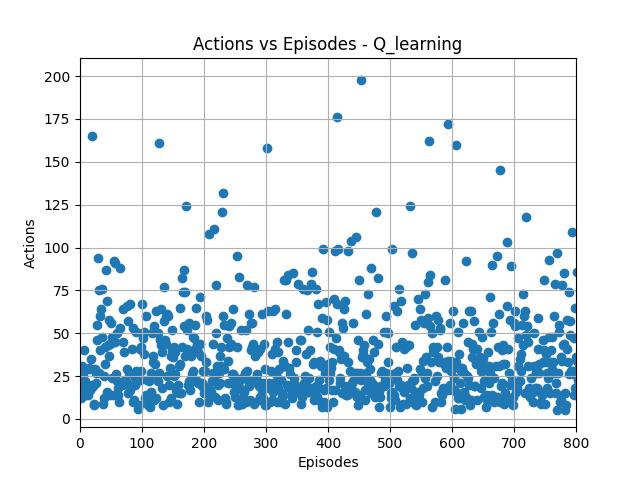
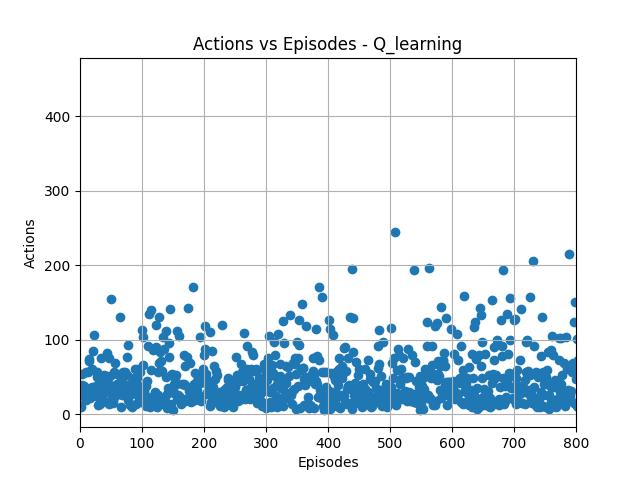
Melhorando range dos parametros.

diff --git a/FrozenLake.py b/FrozenLake.py
@@ -3,6 +3,7 @@ import gymnasium as gym
 import numpy as np
 import matplotlib.pyplot as plt
 from QLearning import QLearning
+from Sarsa import Sarsa
 from numpy import loadtxt
 from numpy import savetxt
 import warnings
@@ -17,16 +18,21 @@ def test_performance(qtable):
         Retorna percentual de acerto do modelo
     '''
 
-    env = gym.make('FrozenLake-v1', render_mode='ansi').env
-
+    env = gym.make('FrozenLake-v1',  map_name="8x8", render_mode='ansi').env
     goals = 0
-
-    for i in range(0,1000):    
+    
+    for i in range(0,100):    
+        
         (state, _) = env.reset()
         done = False
-        while not done:
+        epochs = 0
+
+        while (not done) and (epochs < 300):
+
             action = np.argmax(qtable[state])
             state, reward, done, _, info = env.step(action)
+            epochs +=1
+        
         goals += reward
 
     return goals
@@ -34,22 +40,38 @@ def test_performance(qtable):
 def main():
 
     # Filenames
-    file_csv = 'data/q-table-frozen-lake-qlearning.csv'
-    file_img = 'results/frozen_lake_qlearning'
+    file_csv = 'data/q-table-frozen-lake-sarsa.csv'
+    file_img = 'results/frozen_lake_sarsa'
 
-    # ----- Parâmetros para GridSearch -----
+    # ----- Parâmetros para GridSearch ----
+    # alpha =0.05  gamma=0.95  epsilon=0.85 - 15000 episodios
+    # alpha =0.05  gamma=0.95  epsilon=0.95 - 15000 episodios
+    # alpha =0.05  gamma=0.95  epsilon=0.85 - 89%                      |
+    # alpha =0.05  gamma=0.85  epsilon=0.95 - 60%                      |
+    # alpha =0.2  gamma=0.95  epsilon=0.85  - 72%                      |
+    # alpha =0.03  gamma=0.85  epsilon=0.88 - 72%                      |
+    # alpha =0.03  gamma=0.95  epsilon=0.95 - 77%                      | 
+    # alpha =0.03  gamma=0.98  epsilon=0.95 - 91 %                     |   
+    # alpha =0.03  gamma=0.98  epsilon=0.98 - 91 %                18000 episodios
+    # alpha =0.05  gamma=0.95  epsilon=0.95 - 73%                      |
+    # alpha =0.05  gamma=0.95  epsilon=0.98 - 84%                      |
+    # alpha =0.05  gamma=0.98  epsilon=0.88 - 87%                      |
+    # alpha =0.1  gamma=0.98  epsilon=0.88  - 87%                      |
+    # alpha =0.15  gamma=0.98  epsilon=0.98 - 88%                      |
+    # alpha =0.15  gamma=0.95  epsilon=0.95 - 80%                      |  
+    # alpha =0.15  gamma=0.98  epsilon=0.98 - 88%                      | 
 
-    list_alpha = [0.15 , 0.35 , 0.45 , 0.55 , 0.65  ]
-    list_gamma = [0.75 , 0.77 , 0.83 , 0.86 , 0.89 , 0.95 , 0.98  ]
-    list_epsilon = [ 0.3 , 0.4 , 0.5 , 0.6 , 0.7]
+    list_alpha = [0.01, 0.03, 0.05 , 0.5, 0.1 , 0.15 , 0.2]   
+    list_gamma = [0.8 ,0.85 , 0.95 , 0.98]  
+    list_epsilon = [0.85 , 0.88,  0.9, 0.95 , 0.98] 
 
     epsilon_min = 0.0001
     epsilon_dec = 0.9999
-    episodes  = 5000
+    episodes  = 18000 
 
     # ----- Progress Bar -----
     size = len(list_alpha)*len(list_gamma)*len(list_epsilon)
-    bar = IncrementalBar('Progress ', max = size)
+    bar = IncrementalBar(' Progress ', max = size)
 
     # ----- Melhor conjunto [alpha, gama, epsilon] e dicionario de %acertos com parâmetros  -----
 
@@ -57,9 +79,9 @@ def main():
     dic_goals = {}         #  {[alpha, gamma , epsilon] = % acertos , ...}    
 
     # ----- GridSearch -----
-    print("\n------------------------------------------------")
-    print("----------------- GRID SEARCH ------------------")
-    print("------------------------------------------------\n")
+    print("\n----------------------------------------------------")
+    print("------------------- GRID SEARCH --------------------")
+    print("----------------------------------------------------\n")
 
     for alpha in list_alpha:
         for gamma in list_gamma:
@@ -69,13 +91,20 @@ def main():
                 env = gym.make('FrozenLake-v1', map_name="8x8", render_mode='ansi').env
 
                 # ----- Treina modelo -----
-                qlearn = QLearning(env, alpha=alpha, gamma=gamma, epsilon=epsilon, epsilon_min=epsilon_min, epsilon_dec=epsilon_dec, episodes=episodes)
-                qtable , medium_rewards_per10 , actions_per_episode = qlearn.train()
+                sarsa = Sarsa(env, alpha=alpha, gamma=gamma, epsilon=epsilon, epsilon_min=epsilon_min, epsilon_dec=epsilon_dec, episodes=episodes)
+                qtable , medium_rewards_per10 , actions_per_episode = sarsa.train()
 
-                # --- Calcula percentual de acertos ---
-                goals = test_performance(qtable)
+                # --- Media de acertos ---
+                goals = np.mean(medium_rewards_per10)
+                print(f"------- alpha ={alpha}  gamma={gamma}  epsilon={epsilon}--------")
+                print(goals)
 
-                dic_goals[goals] = [alpha, gamma, epsilon]
+                teste = test_performance(qtable)
+                print(teste)
+                print("------------------------------------------------")
+                
+                parameters_str = f"{alpha} , {gamma} , {epsilon}"
+                dic_goals[parameters_str] = goals
 
                 if(goals > best_goal):
                     best_goal = goals
@@ -83,10 +112,10 @@ def main():
 
                     # Salva
                     savetxt(file_csv, qtable, delimiter=',')
-                    qlearn.plotactions(file_img, actions_per_episode, range(0, episodes) , 'Actions vs Episodes - Q_learning', 'Episodes', 'Actions')
+                    sarsa.plotactions(file_img, actions_per_episode, range(0, episodes) , 'Actions vs Episodes - Sarsa', 'Episodes', 'Actions')
 
                 # --- Atualiza Progresso ---
-                bar.next()
+                #bar.next()
     print("\n--------------------------------------\n")
     print(dic_goals)
     print("\n--------------------------------------\n")

diff --git a/Sarsa.py b/Sarsa.py
@@ -11,7 +11,7 @@ class Sarsa(Algoritimo):
     def __init__(self, env, alpha, gamma, epsilon, epsilon_min, epsilon_dec, episodes):
         super().__init__(env, alpha, gamma, epsilon, epsilon_min, epsilon_dec, episodes)
         
-    def train(self, csv_name, grafic_name , algoritimo):
+    def train(self):
         actions_per_episode = []
         reward_per_episode = []
         reward_list = []
@@ -50,26 +50,10 @@ class Sarsa(Algoritimo):
                 # Aplica a ação escolhida:
                 action = next_action
             
-            # Tratar ruidos do gráfico:
-            #if(i%10 == 0):
-                # Média do total_rewards a cada 10 episodios:
-            #    media = np.mean(reward_list)
-            #    reward_per_episode.append(media)
-            #    reward_list = []
-            #else:
-            #    reward_list.append(total_rewards)
-
-            reward_per_episode.append(total_rewards)    
             actions_per_episode.append(actions)
-            if i % 100 == 0:
-                sys.stdout.write("  > Episodes: " + str(i) +'\r')
-                sys.stdout.flush()
-                pass
+            reward_per_episode.append(total_rewards)
+
             if self.epsilon > self.epsilon_min:
                 self.epsilon = self.epsilon * self.epsilon_dec
         
-        
-        savetxt(csv_name, self.q_table, delimiter=',')
-        self.plotactions(grafic_name, actions_per_episode, range(0,self.episodes) , 'Actions vs Episodes - Sarsa', 'Episodes', 'Actions')
-
-        return self.q_table , reward_per_episode 
+        return self.q_table , reward_per_episode , actions_per_episode

diff --git a/QLearning.py b/QLearning.py
@@ -14,7 +14,7 @@ class QLearning(Algoritimo):
     def train(self):
         
         actions_per_episode = []
-        reward_per10_episode = []
+        reward_per_episode = []
         reward_list = []
         
         for i in range(1, self.episodes+1):
@@ -45,22 +45,9 @@ class QLearning(Algoritimo):
                 total_rewards+=reward
         
             actions_per_episode.append(actions)
-            # reward_per10_episode.append(total_rewards)
+            reward_per_episode.append(total_rewards)
 
-            # Tratar ruidos do gráfico:
-            if(i%10 == 0):
-                # Média do total_rewards a cada 10 episodios:
-                media = np.mean(reward_list)
-                reward_per10_episode.append(media)
-                reward_list = []
-            else:
-                reward_list.append(total_rewards)
-
-            # if i % 100 == 0:
-                # sys.stdout.write(" > Episodes: " + str(i) +'\r')
-                # sys.stdout.flush()
-            
             if self.epsilon > self.epsilon_min:
                 self.epsilon = self.epsilon * self.epsilon_dec
 
-        return self.q_table , reward_per10_episode , actions_per_episode
+        return self.q_table , reward_per_episode , actions_per_episode

diff --git a/test_frozenlake.py b/test_frozenlake.py
@@ -5,7 +5,7 @@ from numpy import loadtxt
 def test_01(): 
 
     env = gym.make("FrozenLake-v1", map_name="8x8", is_slippery=True).env
-    q_table = loadtxt('data/q-table.csv', delimiter=',')
+    q_table = loadtxt('data/q-table-frozen-lake-sarsa.csv', delimiter=',')
     rewards = 0
 
     for i in range(0,1000):    
@@ -20,7 +20,7 @@ def test_01():
 def test_02(): 
 
     env = gym.make("FrozenLake-v1", map_name="8x8", is_slippery=True).env
-    q_table = loadtxt('data/q-table.csv', delimiter=',')
+    q_table = loadtxt('data/q-table-frozen-lake-sarsa.csv', delimiter=',')
     rewards = 0
 
     for i in range(0,1000):    
@@ -35,7 +35,7 @@ def test_02():
 def test_03(): 
 
     env = gym.make("FrozenLake-v1", map_name="8x8", is_slippery=True).env
-    q_table = loadtxt('data/q-table.csv', delimiter=',')
+    q_table = loadtxt('data/q-table-frozen-lake-sarsa.csv', delimiter=',')
     rewards = 0
 
     for i in range(0,1000):    
@@ -50,7 +50,7 @@ def test_03():
 def test_04(): 
 
     env = gym.make("FrozenLake-v1", map_name="8x8", is_slippery=True).env
-    q_table = loadtxt('data/q-table.csv', delimiter=',')
+    q_table = loadtxt('data/q-table-frozen-lake-sarsa.csv', delimiter=',')
     rewards = 0
 
     for i in range(0,1000):    
